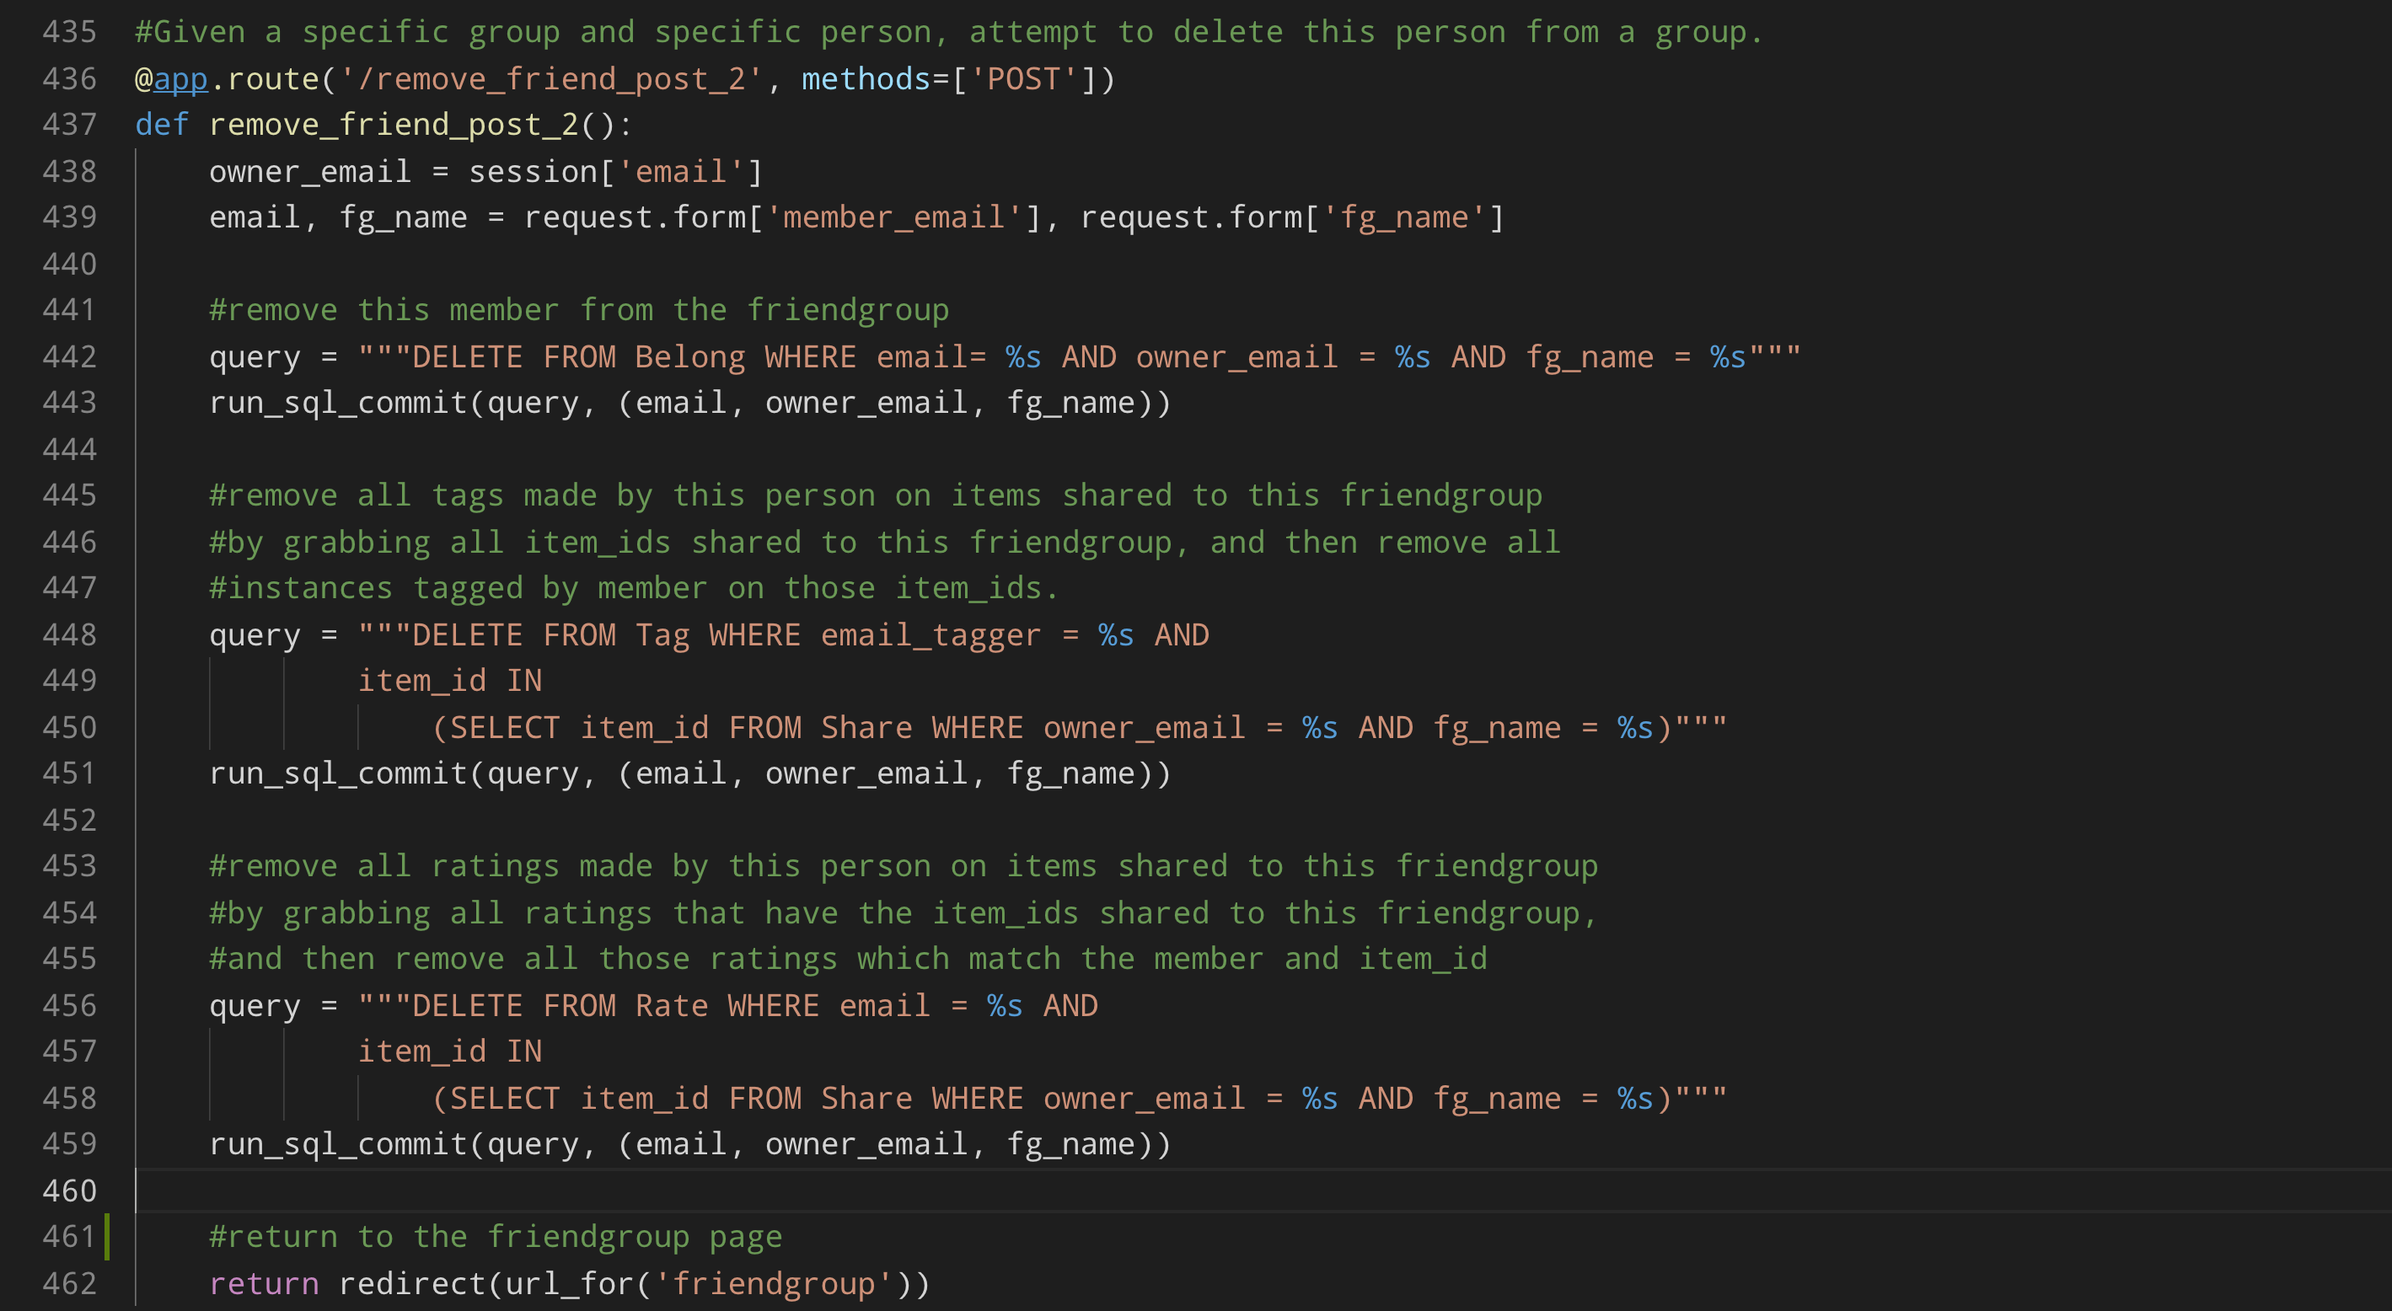
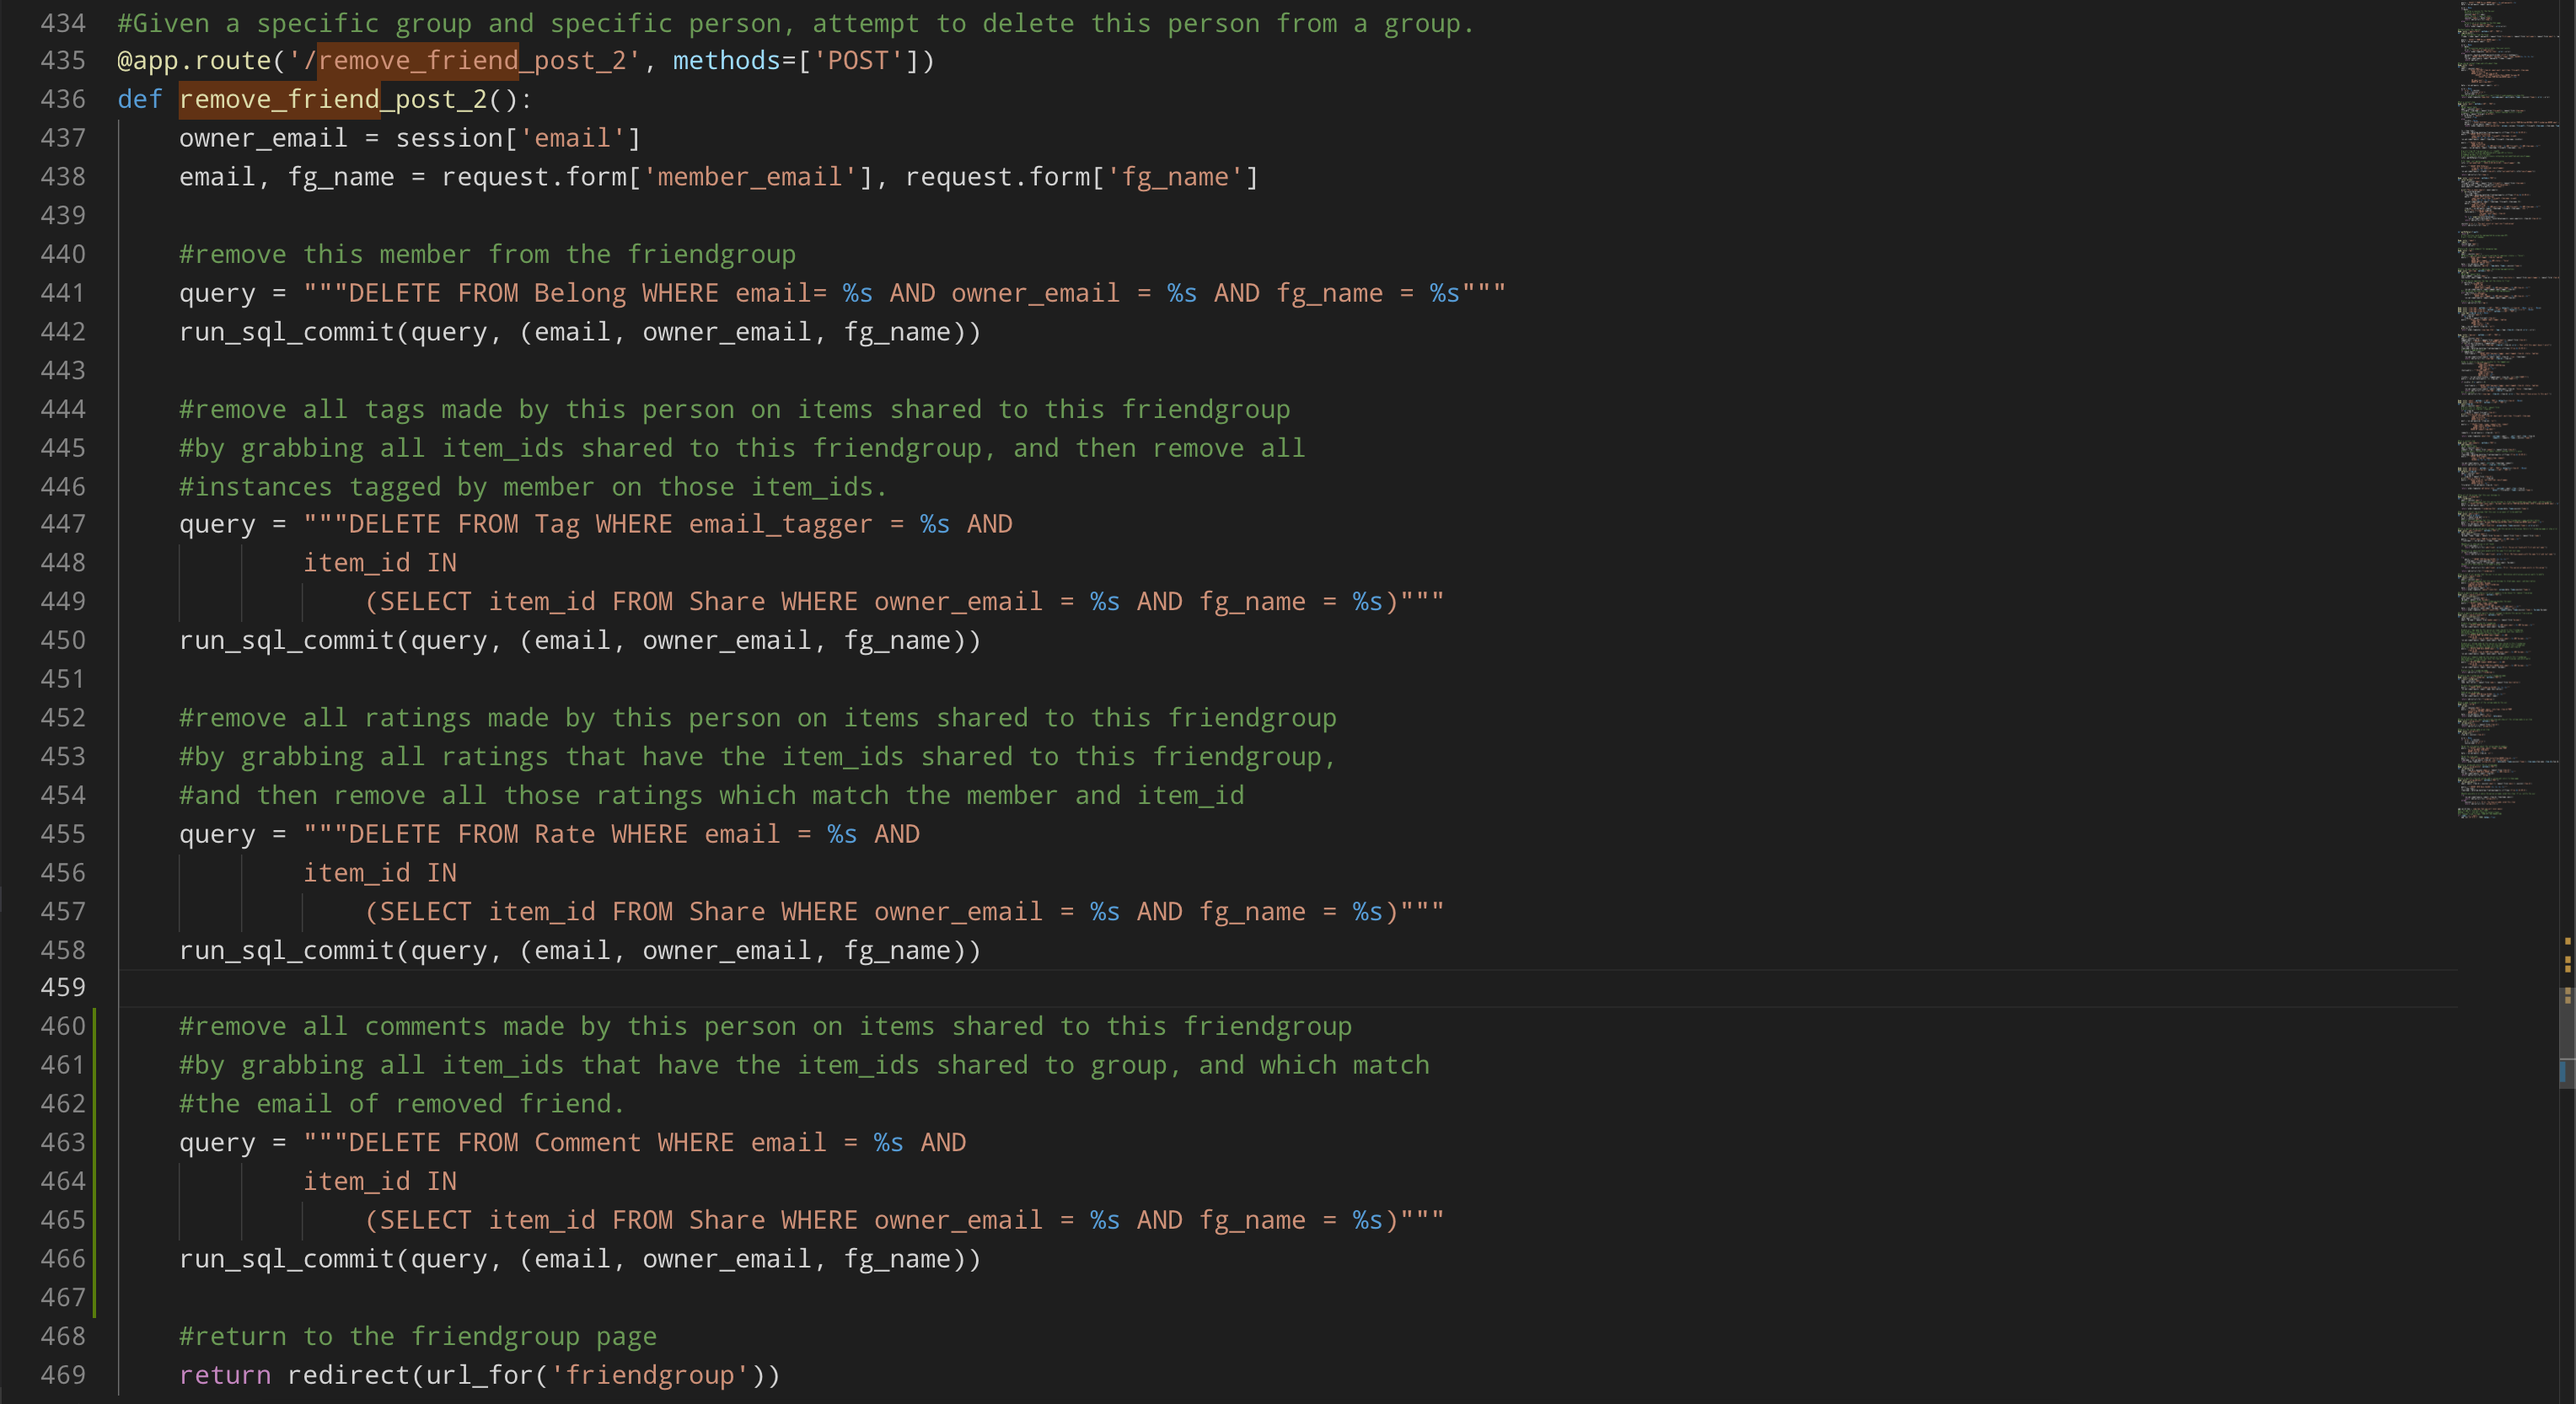
final touches to writeup

diff --git a/ProjectPart3.py b/ProjectPart3.py
@@ -457,6 +457,14 @@ def remove_friend_post_2():
                 (SELECT item_id FROM Share WHERE owner_email = %s AND fg_name = %s)"""
     run_sql_commit(query, (email, owner_email, fg_name))
 
+    #remove all comments made by this person on items shared to this friendgroup
+    #by grabbing all item_ids that have the item_ids shared to group, and which match
+    #the email of removed friend.
+    query = """DELETE FROM Comment WHERE email = %s AND 
+            item_id IN 
+                (SELECT item_id FROM Share WHERE owner_email = %s AND fg_name = %s)"""
+    run_sql_commit(query, (email, owner_email, fg_name))
+    
     #return to the friendgroup page
     return redirect(url_for('friendgroup'))
 
